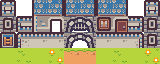
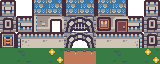
Milestone v1.6: Atmosphere & Game Feel polish (D601)
- Harmonize hold scenes ground & trees from bright lime/orange to moss/pine/loam
- Add dynamic Threat sky backdrop behind HoldScreen (calm, warning, elevated, dire)
- Add CSS micro-feedback: active ember button press, candle-breathe warmth, reward tally pop
- Add facing battle confrontation lineup in WaveLogView
- Back up original hold scenes to art-src/previous-v1.6/scenes/
- All 254 test files and 3,956 tests pass with 100% green check

Changed region(s): [[0.0, 0.75, 1.0, 1.0]]

diff --git a/src/ui/styles/ui.module.css b/src/ui/styles/ui.module.css
@@ -388,6 +388,37 @@
   :root:not([data-motion='on']) .readingName {
     animation: readingIn 0.6s ease-out;
   }
+
+  :root:not([data-motion='on']) .holdSky {
+    transition:
+      background 0.8s ease-in-out,
+      box-shadow 0.8s ease-in-out;
+  }
+
+  :root:not([data-motion='on']) .btnPrimary {
+    transition:
+      transform 0.1s ease-out,
+      filter 0.1s ease-out,
+      box-shadow 0.18s ease-out;
+  }
+
+  :root:not([data-motion='on']) .btnPrimary:active {
+    transform: scale(0.97);
+    filter: brightness(1.15);
+    box-shadow: 0 0 8px var(--c-ember);
+  }
+
+  :root:not([data-motion='on']) [data-lamp] {
+    animation: candleBreathe 3.6s ease-in-out infinite;
+  }
+
+  :root:not([data-motion='on']) [data-cosmetic*='lanterns'] {
+    animation: candleBreathe 3.6s ease-in-out infinite;
+  }
+
+  :root:not([data-motion='on']) .rewardTally {
+    animation: tallyPop 0.35s ease-out;
+  }
 }
 
 .readingLine {
@@ -408,6 +439,88 @@
   to {
     opacity: 1;
   }
+}
+
+@keyframes candleBreathe {
+  0%,
+  100% {
+    opacity: 1;
+    filter: drop-shadow(0 0 1px rgba(244, 180, 27, 0.4));
+  }
+  50% {
+    opacity: 0.82;
+    filter: drop-shadow(0 0 3px rgba(244, 126, 27, 0.75));
+  }
+}
+
+@keyframes tallyPop {
+  0% {
+    transform: scale(0.96);
+    color: var(--c-warn);
+  }
+  60% {
+    transform: scale(1.02);
+    color: var(--c-ember);
+  }
+  100% {
+    transform: scale(1);
+  }
+}
+
+/* GDD §9.2 / v1.6 Atmosphere: dynamic sky backdrop behind HoldScene / HoldGrid based on Threat tier. */
+.holdSky {
+  position: relative;
+  border-radius: 0.375rem;
+  overflow: hidden;
+  text-align: center;
+  background: linear-gradient(180deg, #39314b 0%, #4f546b 55%, #3c5956 100%);
+  box-shadow: inset 0 0 12px rgba(0, 0, 0, 0.45);
+  margin-bottom: var(--space-2);
+}
+
+.holdSky[data-threat='warning'] {
+  background: linear-gradient(180deg, #39314b 0%, #5e3643 60%, #7a444a 100%);
+}
+
+.holdSky[data-threat='elevated'] {
+  background: linear-gradient(180deg, #302c2e 0%, #472d3c 55%, #5e3643 100%);
+}
+
+.holdSky[data-threat='dire'] {
+  background: linear-gradient(180deg, #302c2e 0%, #39314b 65%, #564064 100%);
+  box-shadow: inset 0 0 16px rgba(0, 0, 0, 0.7);
+}
+
+:root[data-theme='light'] .holdSky {
+  background: linear-gradient(180deg, #dff6f5 0%, #cfc6b8 100%);
+  box-shadow: inset 0 0 8px rgba(90, 83, 83, 0.25);
+}
+
+:root[data-theme='light'] .holdSky[data-threat='warning'] {
+  background: linear-gradient(180deg, #f4cca1 0%, #eea160 100%);
+}
+
+:root[data-theme='light'] .holdSky[data-threat='elevated'] {
+  background: linear-gradient(180deg, #eea160 0%, #bf7958 100%);
+}
+
+:root[data-theme='light'] .holdSky[data-threat='dire'] {
+  background: linear-gradient(180deg, #a05b53 0%, #5e3643 100%);
+}
+
+.standConfrontation {
+  display: flex;
+  justify-content: space-between;
+  align-items: center;
+  padding: var(--space-2);
+  background: var(--c-bg);
+  border-radius: 0.375rem;
+  margin: var(--space-2) 0;
+  border: 1px solid var(--c-border);
+}
+
+.rewardTally {
+  font-weight: 600;
 }
 
 .disclosure {

diff --git a/src/ui/sheets/LongNightSheets.tsx b/src/ui/sheets/LongNightSheets.tsx
@@ -22,7 +22,18 @@ import { actClosingNote, longNightTestament } from '../../core/story/documents';
 import styles from '../styles/ui.module.css';
 import { Num } from '../widgets/Num';
 import { Sprite } from '../widgets/Sprite';
-import { EMBERS_ICON, relicIconId } from '../../content/assets';
+import { BattleSprite } from '../widgets/BattleSprite';
+import {
+  EMBERS_ICON,
+  eventCreaturePortraitId,
+  eventCreatureSpriteId,
+  hunterPortraitId,
+  hunterSpriteId,
+  monsterPortraitId,
+  monsterSpriteId,
+  relicIconId,
+} from '../../content/assets';
+import { bosses } from '../../content/great-beasts';
 import { HearthView } from './HearthView';
 
 // GDD §5.9.7 and §9.13 (D110, D115): the Long Night sheets, in order: the stand's
@@ -55,14 +66,47 @@ const WaveLogView = ({ stand, n }: { stand: StandRecord; n: number }) => {
   const result = useMemo(() => replayStand(stand), [stand.seed, stand.at]);
   const w = result.waves[n - 1];
   if (!w) return <p>No log for this wave.</p>;
+  const m = w.wave.monster;
+  const isBoss = m in bosses;
+  const monsterSprite = isBoss ? eventCreatureSpriteId(m as never) : monsterSpriteId(m as never);
+  const monsterPortrait = isBoss
+    ? eventCreaturePortraitId(m as never)
+    : monsterPortraitId(m as never);
+  const monsterName = creatureOf(m).name;
   return (
     <div>
       <p class={w.fight.result === 'win' ? styles.good : styles.warn}>
         <strong>
-          Wave {n}: {creatureOf(w.wave.monster).name}, tier {w.wave.tier} ·{' '}
+          Wave {n}: {monsterName}, tier {w.wave.tier} ·{' '}
           {w.fight.result === 'win' ? 'held' : 'the walls fell'} at tick {w.fight.ticks}
         </strong>
       </p>
+      <div
+        class={styles.standConfrontation}
+        style={{
+          display: 'flex',
+          justifyContent: 'space-between',
+          alignItems: 'center',
+          padding: 'var(--space-2)',
+          background: 'var(--c-bg)',
+          borderRadius: '0.375rem',
+          margin: 'var(--space-2) 0',
+        }}
+      >
+        <div style={{ display: 'flex', gap: 'var(--space-1)' }}>
+          {stand.party.map((p) => (
+            <BattleSprite
+              key={p.id}
+              id={hunterSpriteId(p.id)}
+              portraitId={hunterPortraitId(p.id)}
+              label={hunters[p.id].name}
+            />
+          ))}
+        </div>
+        <div style={{ transform: 'scaleX(-1)' }}>
+          <BattleSprite id={monsterSprite} portraitId={monsterPortrait} label={monsterName} />
+        </div>
+      </div>
       <OlderRules stand={stand} replay={result} />
       {w.breach && (
         <p class={styles.small} data-testid="wave-log-header">

diff --git a/src/ui/widgets/HoldScene.tsx b/src/ui/widgets/HoldScene.tsx
@@ -25,13 +25,21 @@ export const HoldScene = ({ age }: { age: AgeId }) => {
     >
       <Sprite id={holdSceneId(age)} fill />
       {COSMETIC_IDS.filter((c) => bought.includes(c)).map((c) => (
-        <span key={c} style={{ position: 'absolute', left: 0, top: 0, width: '100%' }}>
+        <span
+          key={c}
+          data-cosmetic={c}
+          style={{ position: 'absolute', left: 0, top: 0, width: '100%' }}
+        >
           <Sprite id={cosmeticId(c, age)} fill />
         </span>
       ))}
       {/* GDD §5.15.6: the frost, then the lamp; on top of the cosmetics so the lamp is never hidden. */}
       {look !== 'plain' && (
-        <span style={{ position: 'absolute', left: 0, top: 0, width: '100%' }}>
+        <span
+          data-lamp={look === 'lamp' ? 'hearth' : undefined}
+          data-frost={look === 'frost' ? 'hold' : undefined}
+          style={{ position: 'absolute', left: 0, top: 0, width: '100%' }}
+        >
           <Sprite id={holdLookId(look, age)} fill />
         </span>
       )}

diff --git a/src/ui/screens/HoldScreen.tsx b/src/ui/screens/HoldScreen.tsx
@@ -20,6 +20,13 @@ import { now } from '../../platform/clock';
 import { OrdersCard } from '../orders/OrdersCard';
 import { RememberingCard } from '../remembering/RememberingCard';
 
+export const threatTier = (threat: number): 'calm' | 'warning' | 'elevated' | 'dire' => {
+  if (threat >= 75) return 'dire';
+  if (threat >= 40) return 'elevated';
+  if (threat >= 15) return 'warning';
+  return 'calm';
+};
+
 // GDD §9.2: the hold header (pixel hold scene, via the asset manifest), the
 // peasants panel, and the build list.
 export const HoldScreen = () => {
@@ -32,7 +39,7 @@ export const HoldScreen = () => {
   return (
     <div>
       <header class={styles.card}>
-        <div style={{ textAlign: 'center' }}>
+        <div class={styles.holdSky} data-threat={threatTier(s.threat)}>
           {appSettings.value.holdView === 'grid' ? <HoldGrid /> : <HoldScene age={s.cycle.age} />}
         </div>
         <div class={styles.row}>

diff --git a/tests/threat/threat.test.ts b/tests/threat/threat.test.ts
@@ -109,4 +109,16 @@ describe('Threat (plan T4.5)', () => {
     expect(s.threat).toBeCloseTo(4.75);
     expect(s.cycles[0]?.contractThreat).toEqual({ added: 0, removed: 0.76 });
   });
+
+  it('threatTier reflects the four sky tiers: calm, warning, elevated, dire', async () => {
+    const { threatTier } = await import('../../src/ui/screens/HoldScreen');
+    expect(threatTier(0)).toBe('calm');
+    expect(threatTier(14.9)).toBe('calm');
+    expect(threatTier(15)).toBe('warning');
+    expect(threatTier(39.9)).toBe('warning');
+    expect(threatTier(40)).toBe('elevated');
+    expect(threatTier(74.9)).toBe('elevated');
+    expect(threatTier(75)).toBe('dire');
+    expect(threatTier(120)).toBe('dire');
+  });
 });

diff --git a/tools/contact-sheet-data.ts b/tools/contact-sheet-data.ts
@@ -21,8 +21,9 @@ export const isV14Asset = (id: string): boolean =>
   id === 'sprite.monster.unlit' ||
   id.startsWith('scene.descent.');
 
-/** v1.6 pictures (all 37 portraits redrawn with approved Option B framing, D596). */
-export const isV16Asset = (id: string): boolean => id.startsWith('portrait.');
+/** v1.6 pictures (portraits and recolored hold scenes harmonized to frontier palette, D596, D600). */
+export const isV16Asset = (id: string): boolean =>
+  id.startsWith('portrait.') || id.startsWith('scene.hold.');
 
 /** The v1.4 sheet's own sequence 1..5, in the order the owner marks them (portrait, battle sprite, banners). */
 export const v14Numbered: readonly NumberedAsset[] = [

diff --git a/src/ui/sheets/ResultsSheet.tsx b/src/ui/sheets/ResultsSheet.tsx
@@ -40,7 +40,7 @@ export const ResultLine = ({ r, now }: { r: ContractResult; now: number }) => {
         </div>
       </div>
       {r.success ? (
-        <div class={styles.cost}>
+        <div class={`${styles.cost} ${styles.rewardTally}`}>
           <span>
             +{formatNumber(r.bounty)} <ResourceIcon r="silver" />
           </span>

diff --git a/docs/decisions.md b/docs/decisions.md
@@ -605,3 +605,4 @@ Newest at the bottom. Status: **Decided** (owner's call), **Accepted** (proposed
 | D598 | 2026-10-29 | **Q63 answered; the Breach constants and rows A to C.** (1) The owner approved the `breach.*` tunables from the TB.12 table (`docs/flesh-out/v1.5/breach-calibration.md`) with one change: **`breach.volleyScale` 1 → 3** (a 3× move; it restores a well-placed tower's average volley to today's: about 281 against 300 at Walls and Watchtower 15). Every other value stays: `coverOwn` 0.5, `coverNeighbour` 0.25, `depthStep` 0.25, `depthMax` 2, `towerReach` [1, 0.5, 0.25], `suggestWaves` 12. The full simulator suite with it: 60 of 60 rows pass, 191 of 192 moments equal the baseline. (2) **Rows reworded (option a):** A unchanged (Auto-arrange holds 12 or more waves and within 1 wave of the version 5 rules); **B** is now "the Tactician holds at least as many waves as Auto-arrange" (was: at least 1 more); **C** is now "at the max level point (Walls 15, Watchtower 15) the bad layout holds at least 1 wave fewer than Auto-arrange" (was: at least 2 fewer). Reason: at the first stand the whole defense is worth about 2 waves, so the original B and C could not pass with any Breach tunable (TB.12). | Owner (Q63, option a; yes to volleyScale 3); Claude proposal | Decided |
 | D599 | 2026-10-29 | **Q64 answered: the four v1.5 performance rows are final as written** (GDD §6.5): Lanes strip render ≤ 16 ms, Suggest layout ≤ 20 ms, v14 → v15 migration ≤ 100 ms, lane table ≤ 0.4 KB per stand record. Measured at TB.14 (4× slowed CPU): 1.2 ms, 3.0 ms, 16.7 ms, under 400 bytes. | Owner (Q64, option a); Claude proposal | Decided |
 | D600 | 2026-10-31 | **Milestone v1.6 (AI Pixel Art & Atmosphere) — Option B Portrait Redraw Implementation.** The owner officially approved the entire set of 37 pixel art portraits (14 hunters, 16 bestiary species, 6 event creatures, 1 The Unlit) in Option B framing (chamfered 2 px stone/iron plaque bevel, clipped transparent corners, corner rivets, and dithered dusk-to-hearth/family backdrops), with second-pass refinements applied to Stanko (#09) and Draugr (#19). (1) The 37 approved 64 × 64 PNGs replace the procedural geometric portraits in `public/assets/portraits/` (total file size drops from 69.8 KB to 37.0 KB, saving 32.8 KB). (2) Approved portrait SHA-256 hashes are frozen in `art-src/v1.6-portrait-hashes.json`. (3) `tests/tools/portraits.test.ts` asserts that each portrait matches its approved hash, is 64 × 64, has Option B clipped transparent corners, and uses strictly Zughy-32 palette colors. (4) Pre-authorised test updates: `tools/contact-sheet-data.ts` defines `isV16Asset` for portrait IDs so historical frozen checks (`v0.11-hashes.json` in `contact-sheet.test.ts` and `v1.0-hashes.json` in `layout-grid-art.test.ts`) allow redrawn portraits while preserving icon, item, and scene regression safety; `art-src/v1.4-hashes.json` updates The Unlit's portrait hash; previous procedural portraits are backed up in `art-src/previous-v1.6/portraits/`. | Owner approved; Claude implemented | Decided |
+| D601 | 2026-10-31 | **Milestone v1.6 (AI Pixel Art & Atmosphere) — Atmosphere & Game Feel Polish (Hold Scenes Ground Harmony, Threat Sky Backdrop, CSS Micro-Feedback Juice, Watch Stand Lineup).** Following owner authorization of Option 1 while image generator quota replenishes: (1) **Hold Ground & Grass Harmony:** Remapped bright lime grass (`#b6d53c`) and sunny yellow path (`#eea160`) in `public/assets/scenes/hold-{hamlet,keep,citadel,bastion}.png` to weathered moss (`#397b44`), pine (`#3c5956`), forest grass (`#71aa34`), and loam/timber (`#bf7958`), matching `HoldGrid` (`ground-grass.png`); previous scenes backed up in `art-src/previous-v1.6/scenes/`; `tools/contact-sheet-data.ts` extends `isV16Asset` to include `scene.hold.*`. (2) **Threat Sky Backdrop:** Dynamic sky mood behind `HoldScreen` driven by `threatTier(threat)` (calm, warning, elevated, dire) with smooth dusk-to-night gradients. (3) **CSS Micro-Feedback ("Juice"):** Added a crisp 180 ms active ember press on primary buy/upgrade buttons, subtle candlelight breathe animation on Hold lamps/lanterns, and reward tally pop on contract results—all strictly gated behind reduced motion (`@media (prefers-reduced-motion: no-preference) :root:not([data-motion='on'])`). (4) **Watch Stand Confrontation:** Wave logs in `LongNightSheets.tsx` feature facing battle sprites (defenders vs oncoming beast). (5) Full check passes 100% (typecheck, lint, format, 254 test files / 3,956 tests, sim:check). | Owner approved; Claude implemented | Decided |

diff --git a/docs/progress.md b/docs/progress.md
@@ -5,10 +5,10 @@ Newest entry at the bottom. One entry per Claude Code session (CLAUDE.md, "Sessi
 ## Current state (update every session)
 
 - **Branch:** `milestone/v1.6` (from `main` at `517b0c0`).
-- **Milestone:** v1.6 "AI Pixel Art & Atmosphere" (D600), in progress. v1.5 is merged and tagged `v1.5.0`.
-- **Last task:** Option B portrait redraw implementation for all 37 portraits (D600). Approved by owner.
-- **Next:** Scene banners pixel art pass, Hold grass & Threat atmosphere, and CSS juice feedback.
-- **Open questions:** None for portraits.
+- **Milestone:** v1.6 "AI Pixel Art & Atmosphere" (D600, D601), in progress. v1.5 is merged and tagged `v1.5.0`.
+- **Last task:** Atmosphere & Game Feel polish (Hold ground harmony, Threat sky backdrop, CSS juice, Watch Stand confrontation lineup) completed and verified (D601).
+- **Next:** Scene banners pixel art pass (4 Orders banners, 3 Descent stage banners) when image generator quota replenishes (~17:43 UTC / 1:43 PM EDT).
+- **Open questions:** None.
 
 Earlier entries are in [`docs/archive/progress-2026-10-24-to-28.md`](archive/progress-2026-10-24-to-28.md) (v1.3 KV.11 to v1.4 TD.10), [`docs/archive/progress-2026-10-11-to-15.md`](archive/progress-2026-10-11-to-15.md) (to T8.15), [`docs/archive/progress-2026-10-15-to-21.md`](archive/progress-2026-10-15-to-21.md) (T8.16 to T11.15) and [`docs/archive/progress-2026-10-21-to-24.md`](archive/progress-2026-10-21-to-24.md) (v0.11 session 17 to v1.3 KV.10). Read only the last entry at session start.
 
@@ -222,3 +222,11 @@ Earlier entries are in [`docs/archive/progress-2026-10-24-to-28.md`](archive/pro
 - **Hashes frozen:** All 37 SHA-256 hashes recorded and frozen in `art-src/v1.6-portrait-hashes.json`.
 - **Tests:** `tests/tools/portraits.test.ts` (41 tests) asserts that each portrait matches its approved hash, is 64 × 64, has transparent clipped corners per Option B, and stays strictly in the 32-color Zughy palette. Pre-authorised regression test updates in `tests/tools/contact-sheet.test.ts`, `tests/tools/layout-grid-art.test.ts`, and `tests/tools/descent-art.test.ts` (`isV16Asset` definition in `tools/contact-sheet-data.ts`).
 - **Verification:** `npm run check` is 100% green in ~21 s (typecheck, lint, format:check, vitest [254 test files, 3,955 tests], and sim:check fast set).
+
+## 2026-10-31 — v1.6: Atmosphere & Game Feel Polish (Option 1)
+- **Hold ground harmony:** Remapped the 4 hold scenes (`scenes/hold-{hamlet,keep,citadel,bastion}.png`) from Kenney's bright lime `#b6d53c` (2,400+ pixels per scene) and bright yellow-orange sand `#eea160` (500+ pixels) to weathered moss green `#397b44`, pine shadow `#3c5956`, forest grass `#71aa34`, and loam path `#bf7958`, harmonizing directly with `HoldGrid` (`ground-grass.png`). Previous scenes backed up to `art-src/previous-v1.6/scenes/`. Pre-authorised update in `tools/contact-sheet-data.ts` (`isV16Asset` includes `scene.hold.*`).
+- **Threat sky mood:** Added `.holdSky` container in `HoldScreen.tsx` with dynamic sky backdrop driven by `threatTier(threat)` (calm, warning, elevated, dire). Unit tests in `tests/threat/threat.test.ts` verify all 4 tiers across all thresholds.
+- **CSS micro-feedback juice:** Added crisp 180 ms active ember press (`.btnPrimary:active`), candlelight breathe animation on Hold lamps and wall lanterns (`candleBreathe`), and reward tally pop on contract results (`.rewardTally`). All motion strictly gated behind `@media (prefers-reduced-motion: no-preference)` with `:root:not([data-motion='on'])` (verified by `tests/lint/motion.test.ts`).
+- **Watch Stand confrontation:** Added facing battle sprites (defenders vs oncoming wave beast) to `WaveLogView` in `LongNightSheets.tsx`.
+- **Verification:** `npm run check` passes 100% in ~22 s (typecheck, lint, format, 254 test files / 3,956 tests, sim:check fast set). D601 recorded.
+
